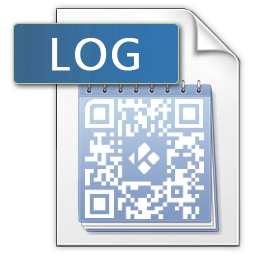
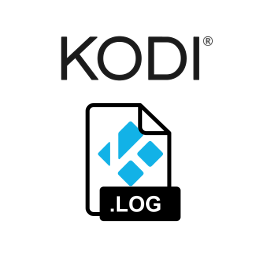
update
restored org. icon and reverted aesthetics with some improvements.

diff --git a/default.py b/default.py
@@ -25,6 +25,7 @@ LOGFILE  = os.path.join(LOGPATH, 'kodi.log')
 OLDLOG   = os.path.join(LOGPATH, 'kodi.old.log')
 REPLACES = (('//.+?:.+?@', '//USER:PASSWORD@'),('<user>.+?</user>', '<user>USER</user>'),('<pass>.+?</pass>', '<pass>PASSWORD</pass>'),)
 IMAGEFILE= os.path.join(xbmc.translatePath(CWD),'temp.png')
+SOLIDFILE= os.path.join(xbmc.translatePath(CWD),'solid.jpg')
 
 def log(txt):
     if isinstance (txt,str):
@@ -36,29 +37,13 @@ class QRCode(xbmcgui.WindowDialog):
     def __init__(self, url, message):        
         url = pyqrcode.create(url)
         url.png(IMAGEFILE, scale=10, module_color=(255, 255, 255, 255), background=(0, 0, 0, 255)) 
-        self.showWindow(message)
+        self.addControl(xbmcgui.ControlImage(0, 0, self.getWidth(), self.getHeight(), SOLIDFILE))
+        self.addControl(xbmcgui.ControlImage(self.getWidth()/4, 100, self.getWidth()/2, self.getWidth()/2, IMAGEFILE))
+        self.textbox = xbmcgui.ControlTextBox(100, 100, self.getWidth(), 100)
+        self.addControl(self.textbox)
+        self.textbox.setText(message)
+        self.show()
  
-    def showWindow(self, text, heading=ADDONNAME):
-        id = 10147
-        xbmc.executebuiltin('ActivateWindow(%d)' % id)
-        xbmc.sleep(100)
-        win = xbmcgui.Window(id)
-        retry = 50
-        while (retry > 0):
-            try:
-                xbmc.sleep(10)
-                retry -= 1
-                win.getControl(1).setLabel(heading)
-                win.getControl(5).setText(text)
-                winWidth =  win.getWidth()
-                winHeight = win.getHeight()
-                self.addControl(xbmcgui.ControlImage(winWidth/2 - (winWidth/3 // 2), winHeight/2 - (winWidth/3 // 2), winWidth/3, winWidth/3, IMAGEFILE))
-                # self.addControl(xbmcgui.ControlLabel(xpos/4, ypos/4, laDEM[0], laDEM[1], label=message))
-                self.show()
-                return
-            except:
-                pass
-          
     # def onClick(self, controlid):
         # self.close()
  
